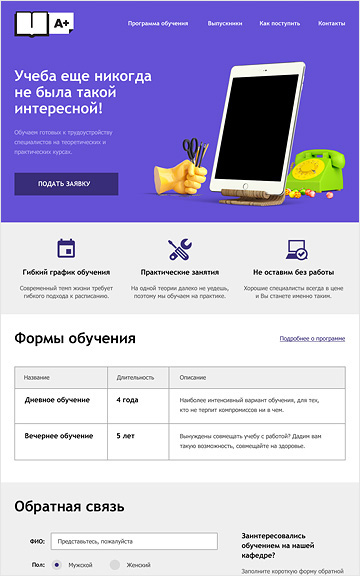
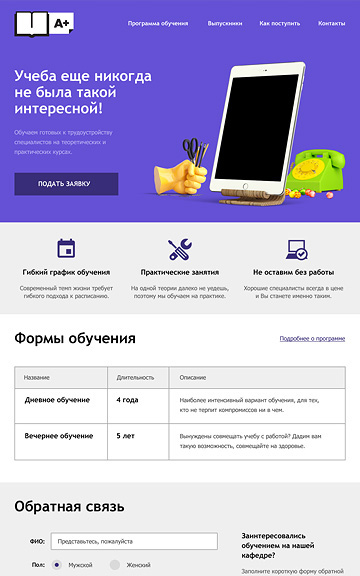
Стилизация-3

Changed region(s): [[0.9778, 0.0, 1.0, 0.375], [0.9778, 0.5625, 1.0, 0.8125], [0.0, 0.0, 0.0306, 0.0312]]

diff --git a/css/style.css b/css/style.css
@@ -41,6 +41,7 @@ a {
 }
 
 .main-navigation a {
+  display: block;
   color: #000000;
 }
 
@@ -247,9 +248,14 @@ a {
   list-style: none;
 }
 
+.partner-site a {
+  display: block;
+  opacity: 0.2
+}
+
 .partner-site a:focus,
 .partner-site a:hover {
-  opacity: 0.2;
+  opacity: 1;
 }
 
 .partner-site a:active {
@@ -261,6 +267,7 @@ a {
   line-height: 30px;
   font-weight: 700;
   color: #000000;
+  text-transform: uppercase;
 }
 
 .footer-social ul {
@@ -278,9 +285,18 @@ a {
   position: relative;
   width: 79px;
   height:79px;
-  background-color: #e74246;
+  background-color: #e1e1e1;
   border-radius: 50%;
   display: block;
+}
+
+.footer-social a:hover,
+.footer-social a:focus {
+  background-color: #e74246;
+}
+
+.footer-social a:active {
+  background-color: #d7373b;
 }
 
 .footer-social img {
@@ -321,9 +337,19 @@ a {
   border: 2px solid #000000;
 }
 
+input:hover::placeholder,
+textarea:hover::placeholder {
+  color: black;
+}
+
 .modal-feedback input:invalid,
 .modal-feedback textarea:invalid {
   border: 2px solid #e74246;
+  color: #e74246;
+}
+
+input:hover::invalid,
+textarea:hover::invalid {
   color: #e74246;
 }
 
@@ -338,6 +364,22 @@ a {
   display: block;
 }
 
+.modal-feedback .modal-close {
+  opacity: 0.3;
+}
+
+.modal-feedback .modal-close:hover,
+.modal-feedback .modal-close:focus {
+  opacity: 1;
+}
+
+.modal-feedback .modal-close:active {
+  opacity: 0.1;
+}
+
+
+/* catalog.html */
+
 .catalog-caption {
   background-color: #eeeeee;
 }
@@ -348,6 +390,7 @@ a {
   line-height: 55px;
   font-weight: 500;
   text-align: center;
+  color: #000000;
 }
 
 .sort-menu {
@@ -456,10 +499,16 @@ a {
 }
 
 .coast-info {
+  display: none;
   margin: 0;
   padding: 0;
   background-color: #eeeeee;
 }
+
+.product-cards-item:hover > .coast-info {
+  display: block;
+}
+
 .coast-info b {
   font-size: 18px;
   line-height: 30px;

diff --git a/catalog.html b/catalog.html
@@ -67,8 +67,8 @@
         </label>
       </fieldset>
 
-      <fieldset>
-        <legend class="choice-field">Особенности:</legend>
+      <fieldset class="choice-field">
+        <legend>Особенности:</legend>
         <input type="checkbox" name="slider" id="slider" checked>
         <label for="slider">Слайдер</label>
         <input type="checkbox" name="adv-field" id="adv-field">
